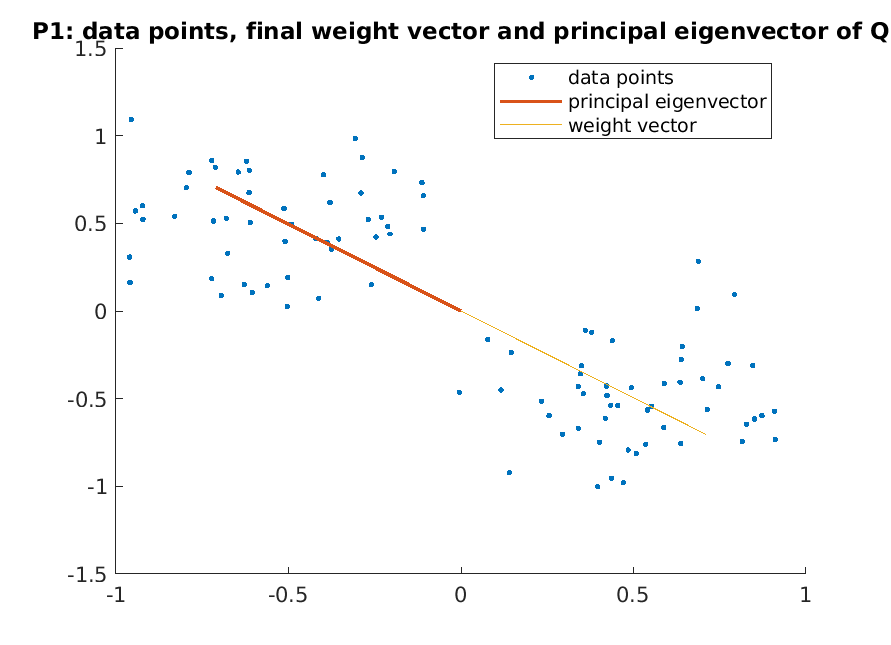
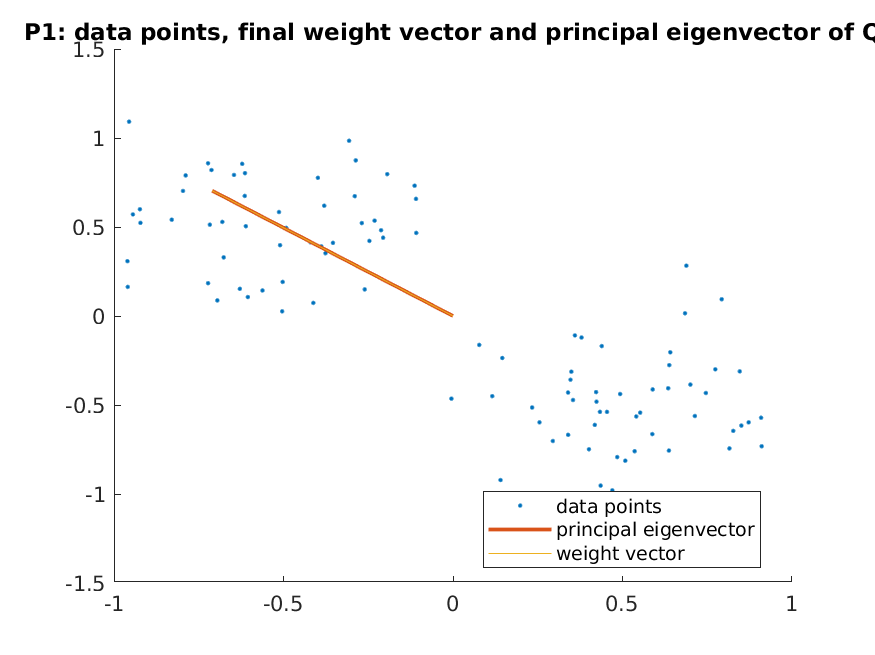
Updated subtractive norm rule

diff --git a/LAB2_1/BonusTrack1 (to-do)/bcm_rule.m b/LAB2_1/BonusTrack1 (to-do)/bcm_rule.m
@@ -4,7 +4,7 @@ clear variables;
 data = readtable('../lab2_1_data.csv');  % importing data as table
 U = table2array(data);  % converting table into input array
 U_size = size(U,2);  % training set dimension
-eta = 5*10e-6;  % learning rate
+eta = 1*10e-2;  % learning rate
 epochs=1000;  % iterations
 %theta = 2*10e-5;  % threshold for early stopping
 %theta = NaN;
